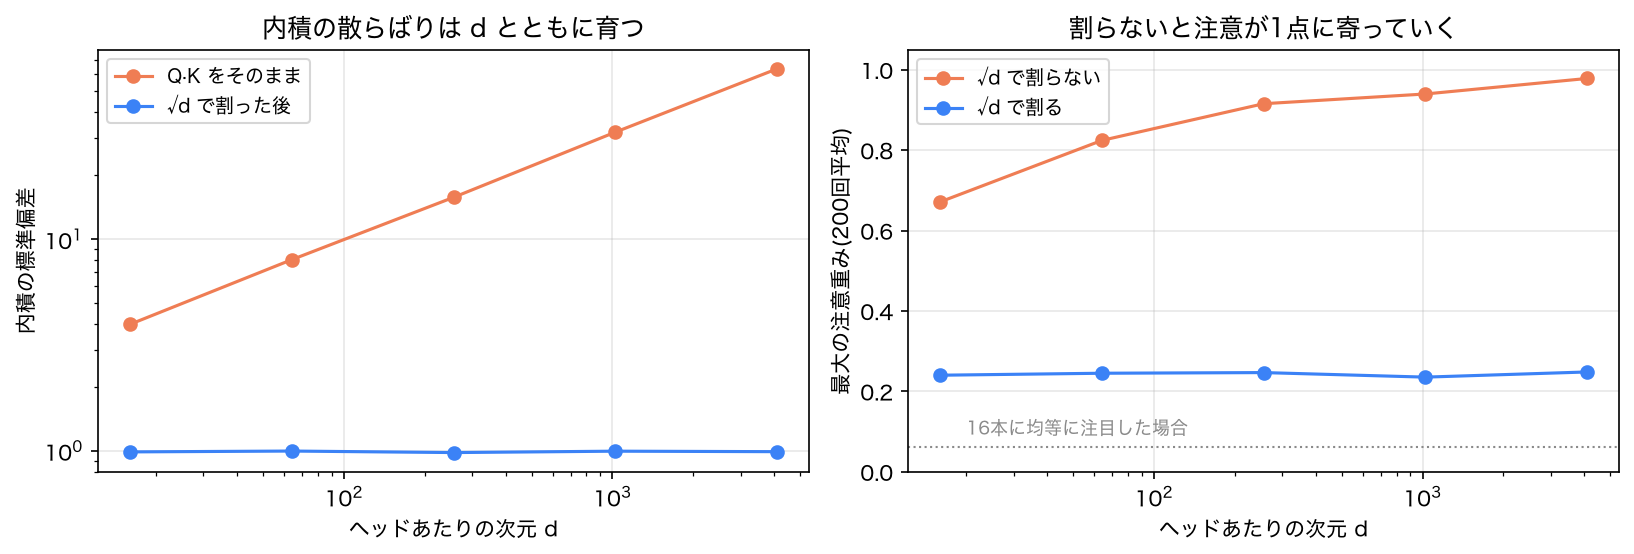
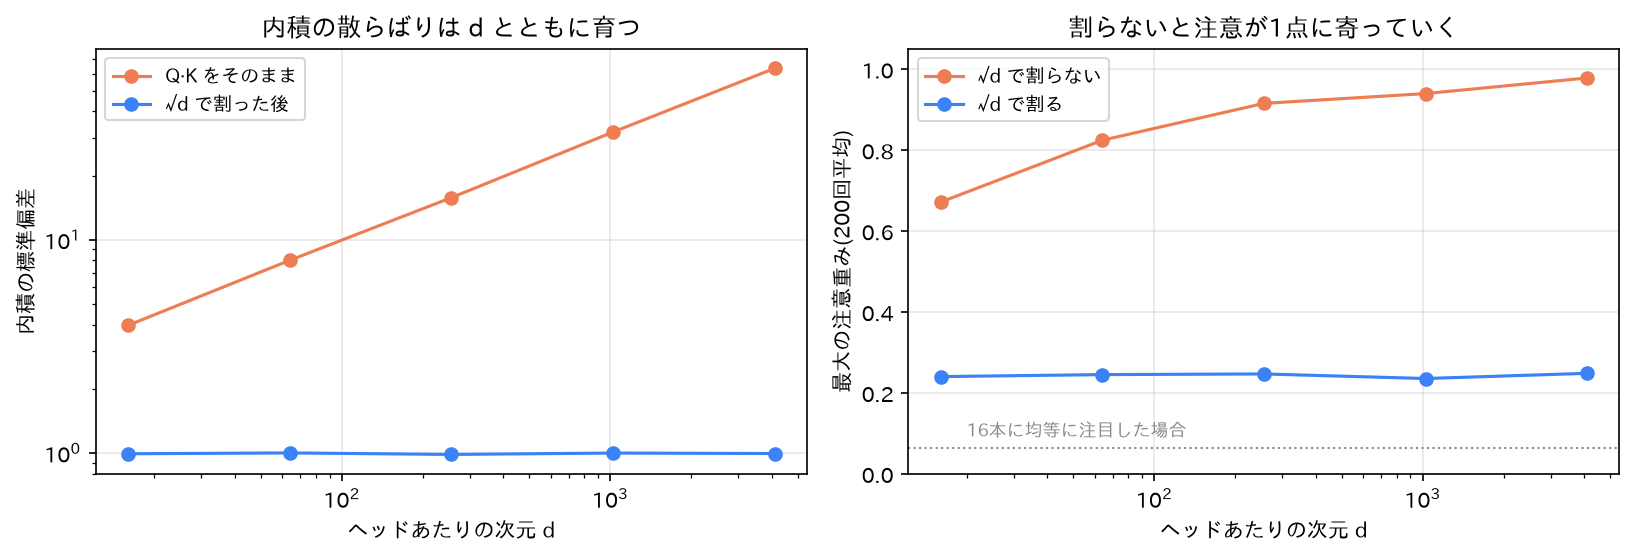
Use matplotlib-fontja so figure labels never turn into tofu
グラフの日本語が文字化けするとの指摘への対応。

原因は、フォントをシステム名で直接指定していたこと。
Hiragino Sans はmacOSにしか無いため、読者がColabなどで実行すると
ラベルが豆腐になる(この環境では見えていたので気づけなかった)。

matplotlib-fontja はフォント自体を同梱するので、import の1行だけで
どの環境でも日本語が出る。matplotlib 3.11 で警告なしに動くことを確認済み
(japanize-matplotlib は新しいmatplotlibで動かないためこちらを採用)。

- 記事のコードを `import matplotlib_fontja` の1行に置き換え。
  冒頭に pip install の案内を追加(Colab向けの !pip 版も併記)
- 図10枚を再生成し、全10枚を目視で日本語表示を確認。
  verify_article_code.py で7ブロックの出力が記事と一致することも再確認
- requirements.txt に matplotlib-fontja==1.1.0 を追加
  (ヘッダ行の重複が入っていたのもあわせて修正)
- CLAUDE.md / write-article スキルに、読者に渡すコードでは
  システムフォント名を直接指定しないことを明記

diff --git a/CLAUDE.md b/CLAUDE.md
@@ -92,6 +92,16 @@ AIの原理を「やさしいのに正確」に伝えるコンテンツを継続
 ## 図解
 - 拡散過程の可視化、分布の変化、アーキテクチャ図は
   matplotlib / mermaid で生成する
+- **日本語ラベルは `matplotlib-fontja` を使う**（2026-08-08 改定）。
+  `import matplotlib_fontja` の1行でフォントが同梱のものに切り替わる。
+  `plt.rcParams["font.family"] = "Hiragino Sans"` の直接指定はmacOSでしか動かず、
+  読者がColabで実行すると豆腐になる。読者に渡すコードには必ずこれを入れる
+  ```python
+  import matplotlib.pyplot as plt
+  import matplotlib_fontja  # noqa: F401  これだけで日本語が文字化けしない
+  ```
+  記事の冒頭で `pip install matplotlib-fontja` を案内する
+  （Colab向けに `!pip install matplotlib-fontja` も併記する）
 
 ## 公開フロー
 - Zennのフロントマター（title, emoji, type, topics, published）を整える
